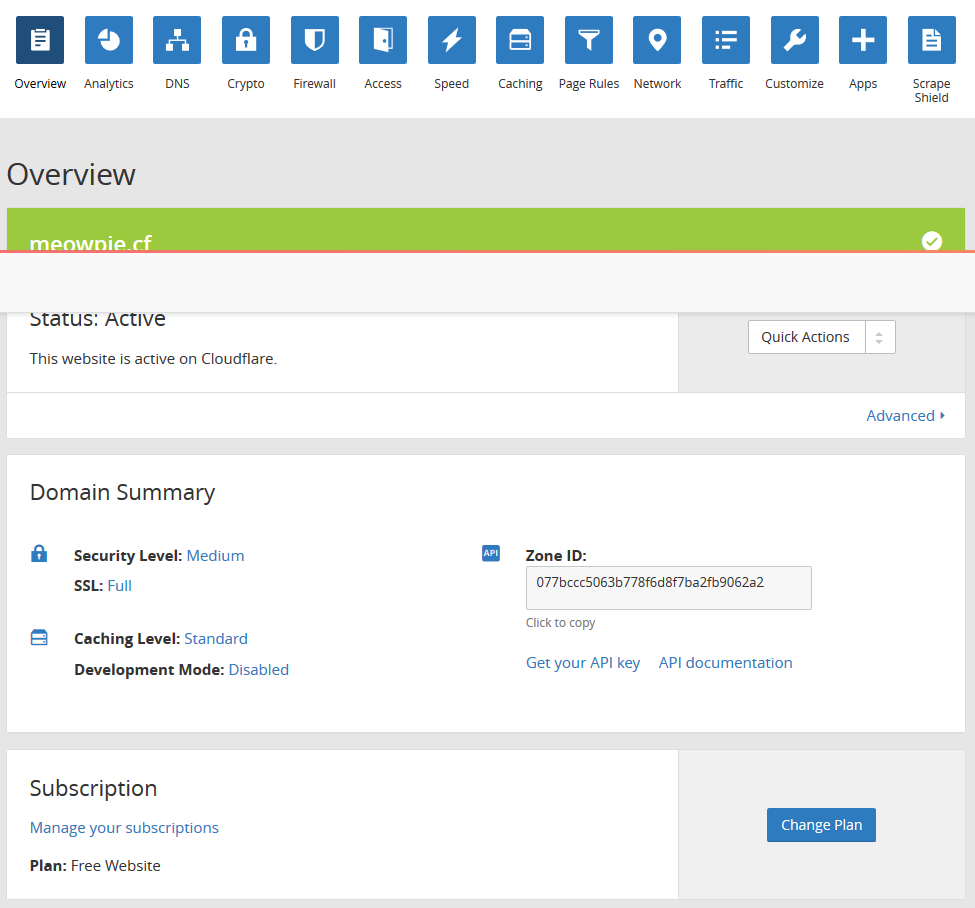
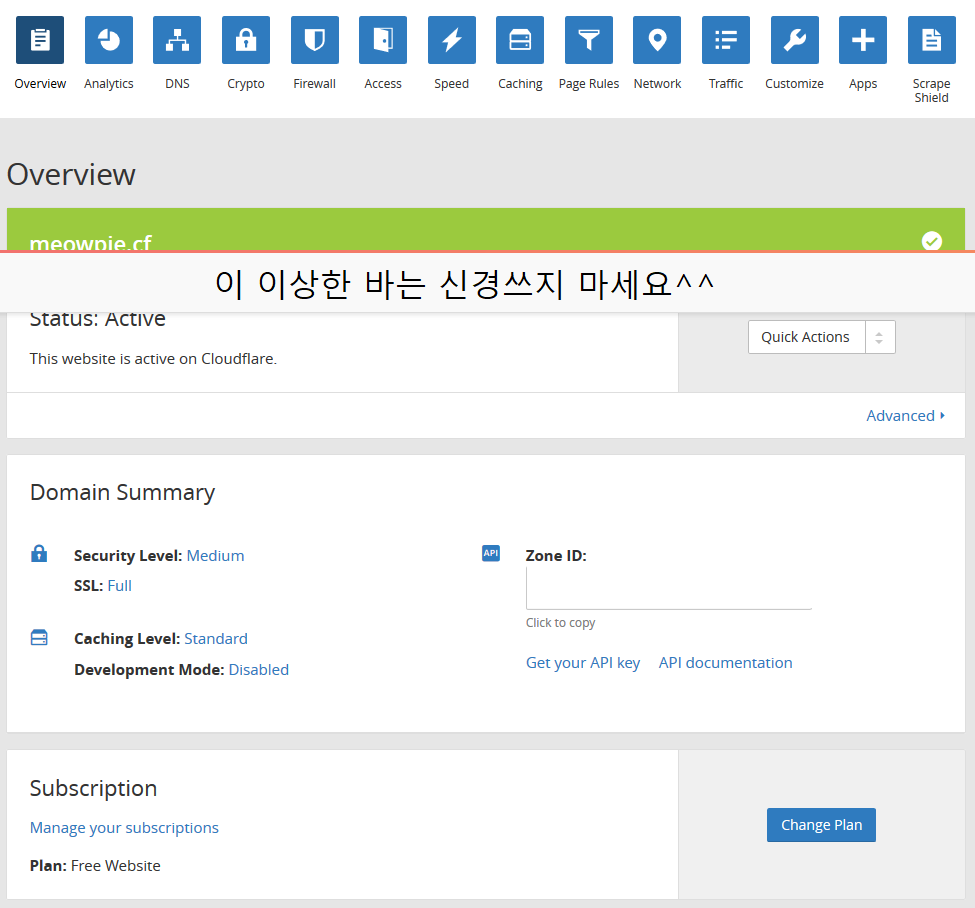
HTTPS 일부 수정하고 글 완성

Changed region(s): [[0.2769, 0.2775, 0.7077, 0.3392], [0.5538, 0.6167, 0.8, 0.6476], [0.2154, 0.2775, 0.2462, 0.3392]]

diff --git a/_includes/css.html b/_includes/css.html
@@ -3,5 +3,5 @@
 <link type="text/css" rel="stylesheet" href="{{ site.url }}/assets/css/materialize.css" media="screen">
 <link type="text/css" rel="stylesheet" href="{{ site.url }}/assets/css/prism.css">
 <link type="text/css" rel="stylesheet" href="{{ site.url }}/assets/css/skeleton.css">
-<link type="text/css" rel="stylesheet" href="http://spoqa.github.io/spoqa-han-sans/css/SpoqaHanSans-kr.css">
+<link type="text/css" rel="stylesheet" href="https://spoqa.github.io/spoqa-han-sans/css/SpoqaHanSans-kr.css">
 <link type="text/css" rel="stylesheet" href="{{ site.url }}/assets/css/style.css">

diff --git a/_includes/footer.html b/_includes/footer.html
@@ -14,9 +14,6 @@
         <li><a class="grey-text text-lighten-3" href="mailto:{{ site.author.email }}">Email</a></li>
         {% endif %}
         <li><a class="grey-text text-lighten-3" href="https://github.com/{{ site.author.github }}">Github</a></li>
-        {% if site.author.telegram %}
-        <li><a class="grey-text text-lighten-3" href="https://t.me/{{ site.author.telegram }}">Telegram</a></li>
-        {% endif %}
       </ul>
     </div>
   </div>

diff --git a/_posts/2017-11-29-github-page-https.md b/_posts/2017-11-29-github-page-https.md
@@ -33,12 +33,44 @@ image:
 
 바로...
 
-유명한 `Cloudflare` 를 사용해보았다. 어느분이 써주신것 같이 소잃고 외앙간 고친다고, 전보다는 괜찮아졌겠지;;
+유우~명한 `Cloudflare` 를 사용해보았다. 어느분이 써주신것 같이 소잃고 외앙간 고친다고, 전보다는 괜찮아졌겠지;;
 
 (사건을 모르신다면 [나무위키](https://namu.wiki/w/Cloudflare/) 참고)
 
 보면 아시겠지만 생각보다 심각한 문제이고 한국은 제대로 지원이 안되서 속도도 느리고 구글이 어쩌고저쩌고...
 
-캐나다에 있으니 그냥 생각없이 가입했다.
+캐나다에 있으니 그냥 생각없이 가입했다. 그리고 어짜피 개인 블로그이고 티스토리처럼 기능이 많은 것도 아니라서 속도는 더 빨라진 느낌이다!
 
-Writing...!
+하나더 말하자면, 깃허브 서버는 외국에있다!! ㅇㅅㅇ
+
+먼저 `Cloudflare` 에 가입한다. 인증이 있었는지는 모르겠지만 사이트랑 관리해야 하고 등등... 임시메일 이런거 쓰지말자.
+
+![회원가입](https://raw.githubusercontent.com/MeowPiE/meowpie.github.io/master/assets/img/2017-11-29-github-page-https/cloudflare_signup.png)
+
+## [Cloudflare](https://www.cloudflare.com/a/sign-up/)
+
+사이트 주소를 입력하고 나면... 1분이라고 자신하는 DNS 체크 페이지와 동영상이 나오는데;;
+
+24시간 걸렸다 데헿! ~~이런 씨X 다른 블로그도 다 믿을 수가없어~~
+
+다른분은 1분정도 걸리신다니 복불복... 아니 DNS 원래 제공하는 서버의 속도 차이인듯?
+
+모든 과정을 거치면(DNS 맞는지 확인하고... 대부분 몇개 없더라. 특히 이메일 MX) 이런 페이지가 나온다!
+
+그전에 전에 DNS 쓰시던분(아 다들 쓰시겠구나;;)은 네임서버를 알려주는대로 변경한다.
+
+한 1시간 기다리면 아래 화면이 나온다!!(설명에는 24시간? 까지도...)
+
+![메인화면](https://raw.githubusercontent.com/MeowPiE/meowpie.github.io/master/assets/img/2017-11-29-github-page-https/overview.png)
+
+(그렇다! 파이어폭스 캡쳐의 오류로 이상한 바가 튀어나온것이다!)
+
+아무튼 기본 상태로 한차아아암 기다리면(인증서 활성화까지 약 12시간), HTTPS로 들어갔을때도 접속이되는데... HTTP로 익숙해진 사용자들을 HTTPS로 옮겨달라고 하기는 귀찮다;;
+
+다행히도 이 `Cloudflare` 라는 녀석은 자동으로 HTTP에서 들어와도 HTTPS로 바꿔주는 기술이 들어있다.(~~강.제.변.환.술!~~)
+
+관리 페이지에서 `Crypto` 에 들어가서 쭈욱 스크롤을 하면...
+
+![메인화면](https://raw.githubusercontent.com/MeowPiE/meowpie.github.io/master/assets/img/2017-11-29-github-page-https/always.png)
+
+짠! 이것만 활성화하면 끝!!
